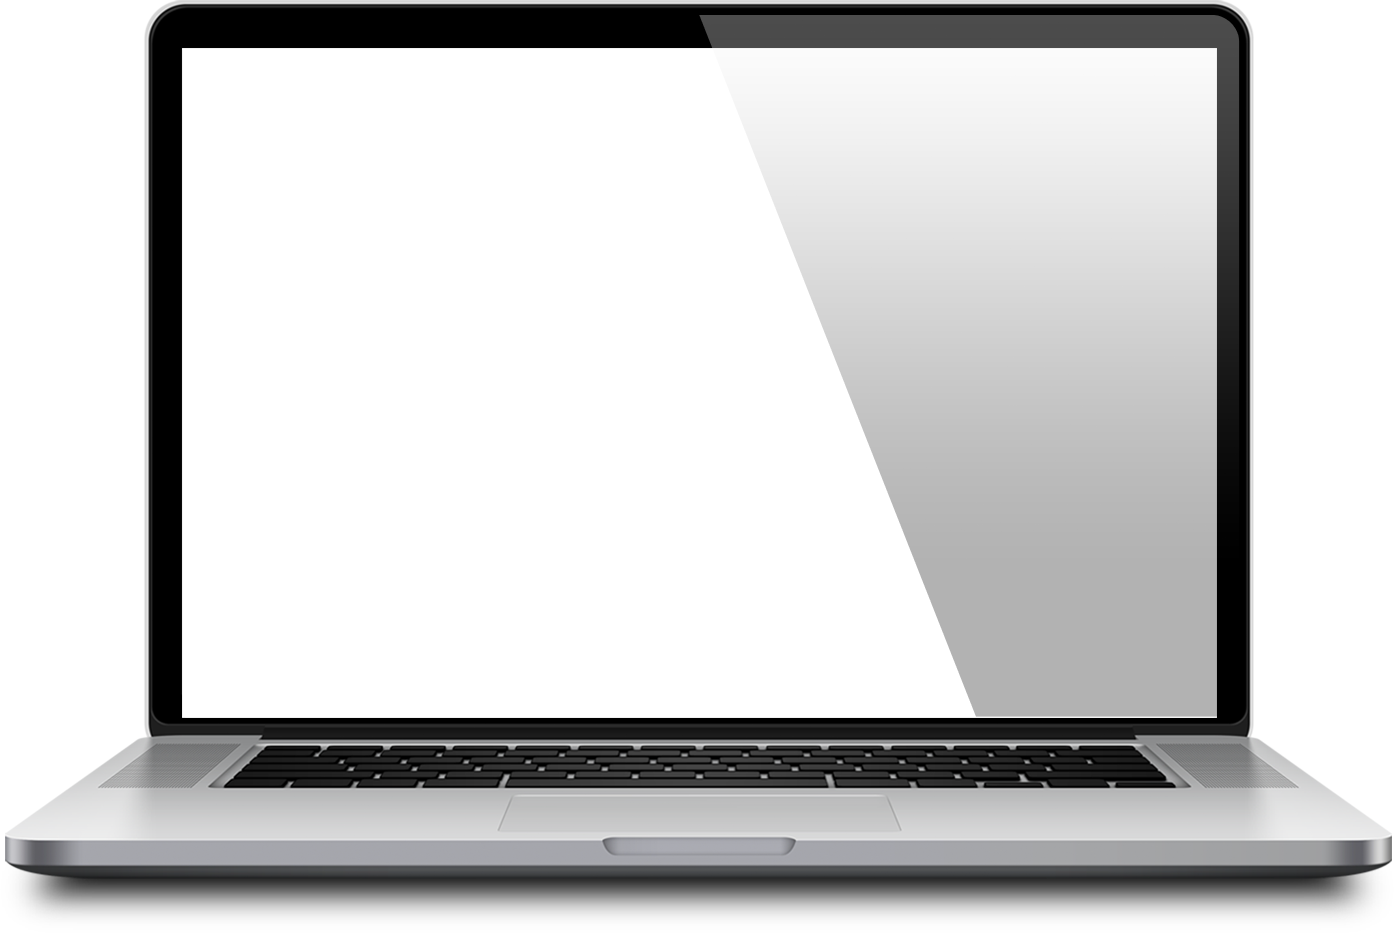
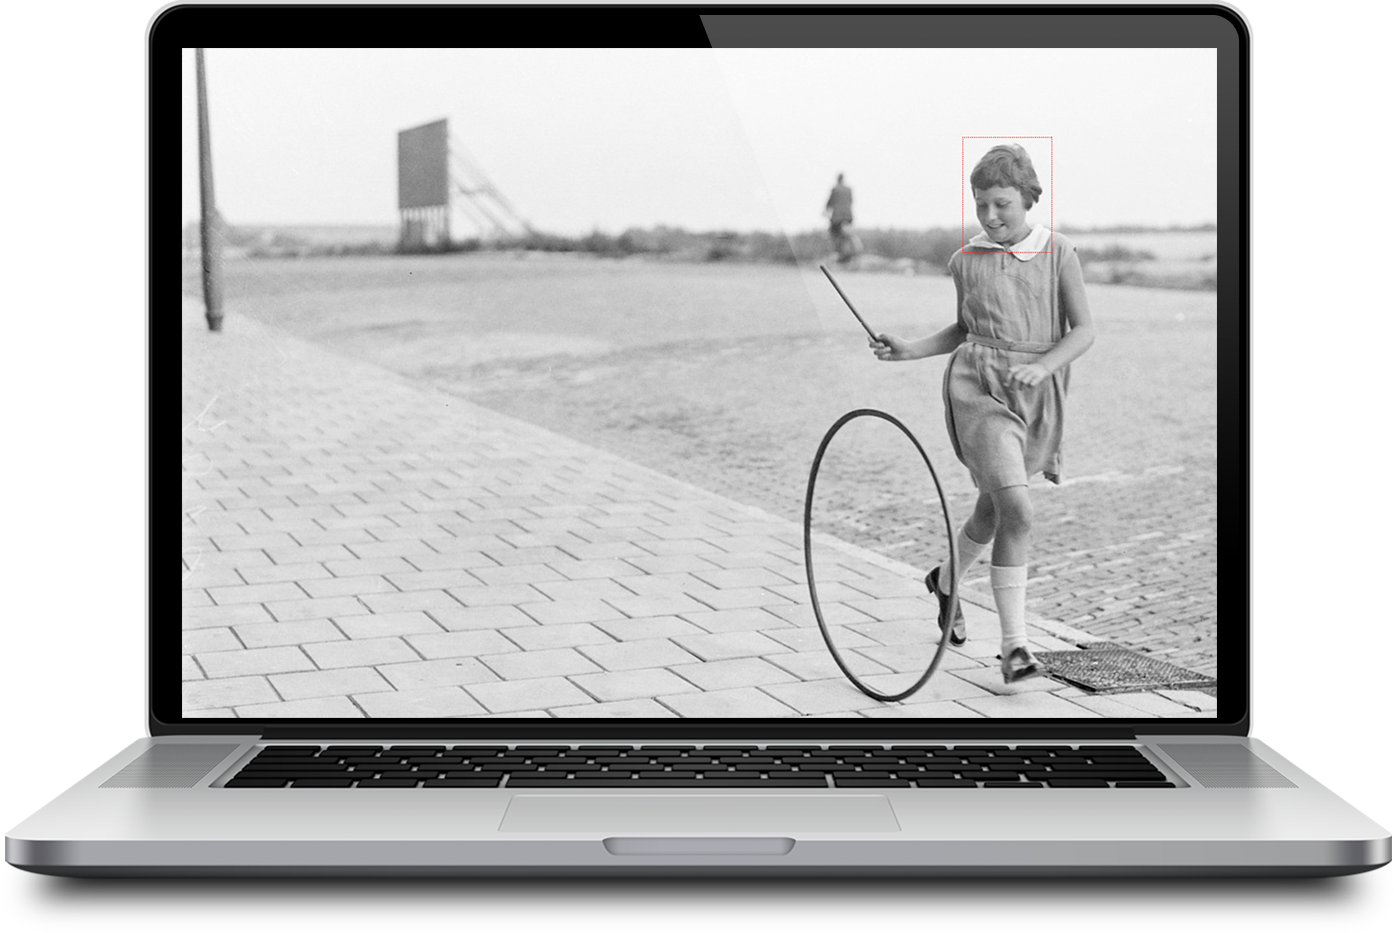
Simplified version of laptop image wrapper.

diff --git a/sections/face-detection/index.html b/sections/face-detection/index.html
@@ -19,7 +19,7 @@
         <h2 class="subtitle">Face detection & smart cropping</h2>
         <p class="text">Intelligently recognises faces and dynamically crops images whatever the size, whatever the display. All you have to do is is find the right media.</p>
       </article>
-      <img class="media" src="photo.jpg">
+      <img class="media" src="laptop.png">
 
     </section>
 
@@ -62,11 +62,18 @@
         }
 
         @h |~-~("area")~-~| in(&) gap([md] * 2);
-        @v |~-~("area") in(&) gap([md] * 3);
-        @v ("area")~-~| in(&) gap([md] * 4);
-        area[center-x] == &[center-x];
+        @v |("area") in(&);
+        @v ("area")| in(&);
+        "area"[center-x] == &[center-x];
 
-        @h |-(& article)-(.media)-| gap([md] * 2) in("area");
+        @h |(& article)-(.media)| gap([md] * 2) in("area");
+
+        @v |~-~(& article) in(&) gap([md] * 3);
+        @v (& article)~-~| in(&) gap([md] * 4);
+
+        @v |~-~(.media) in(&) gap([md] * 2);
+        @v (.media)~-~| in(&) gap([md] * 3);
+
         article[center-y] == .media[center-y] == "area"[center-y];
 
         .media {
